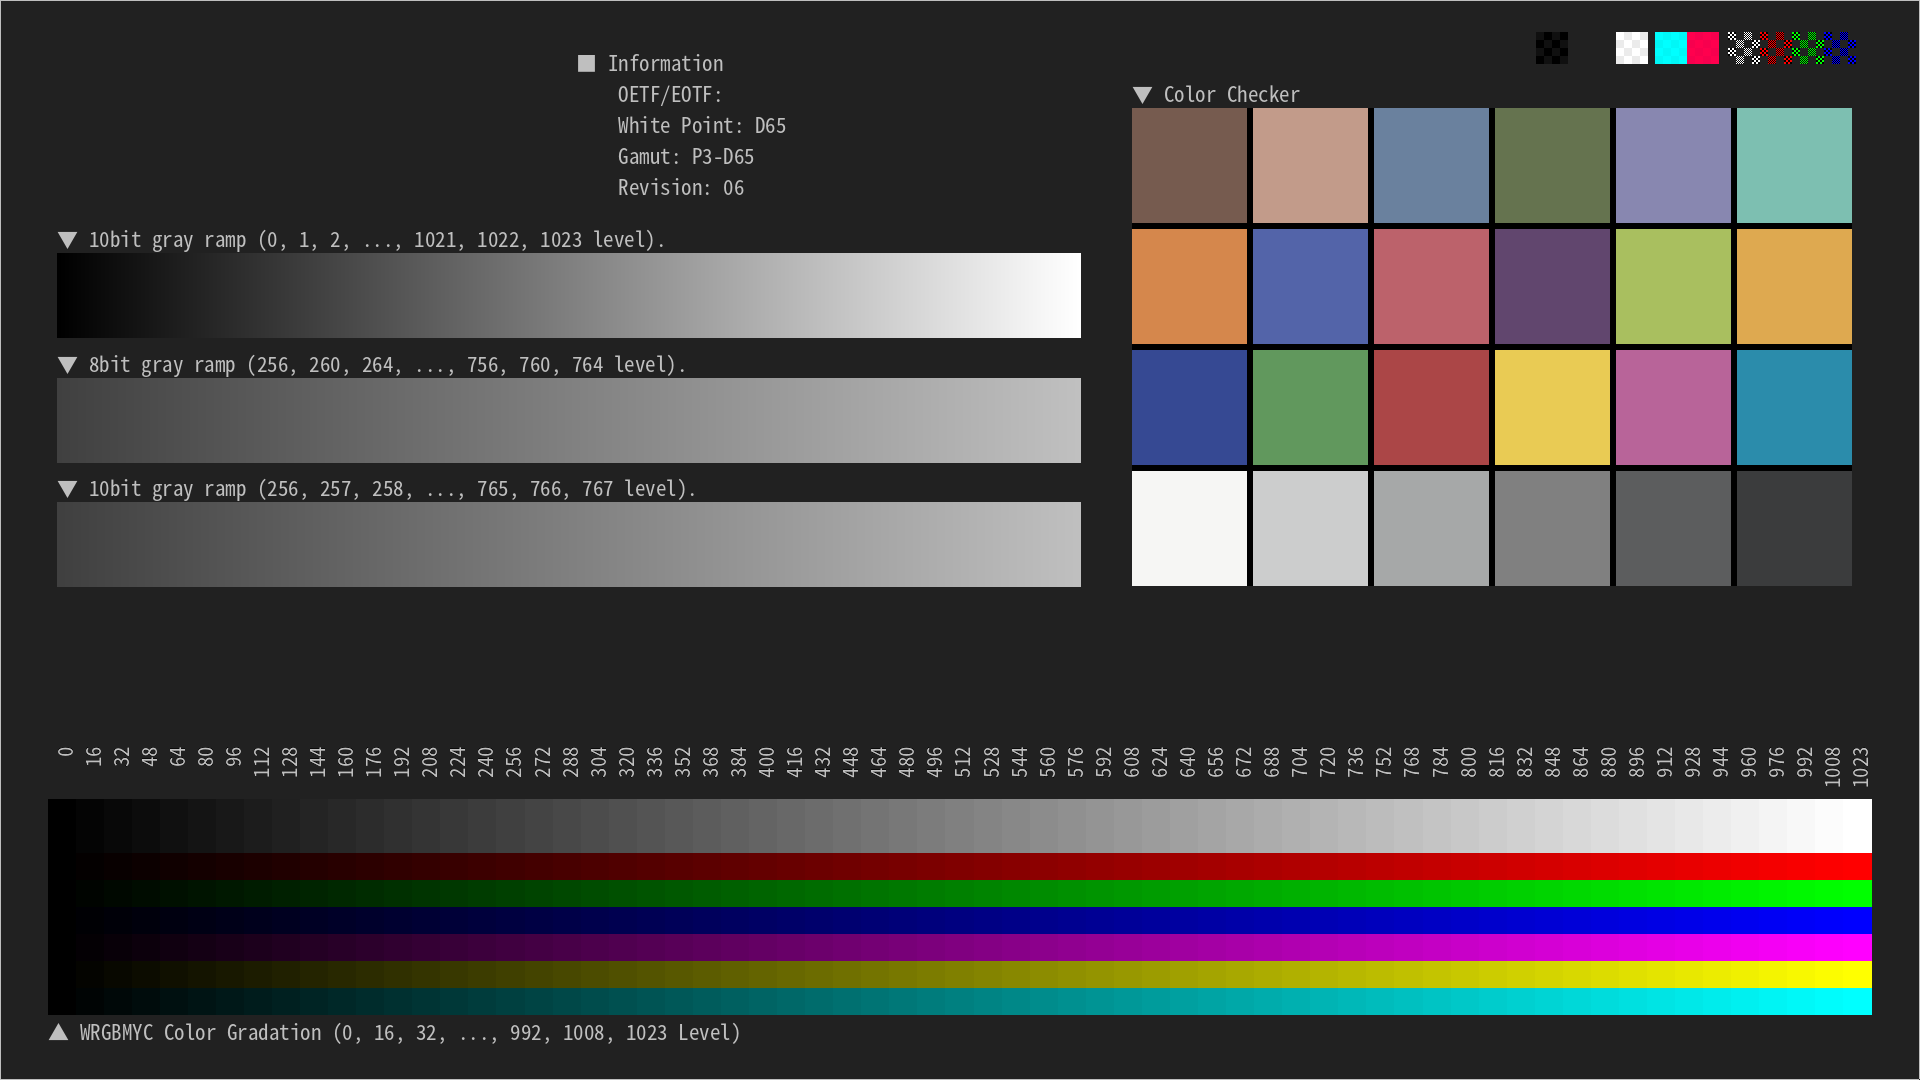
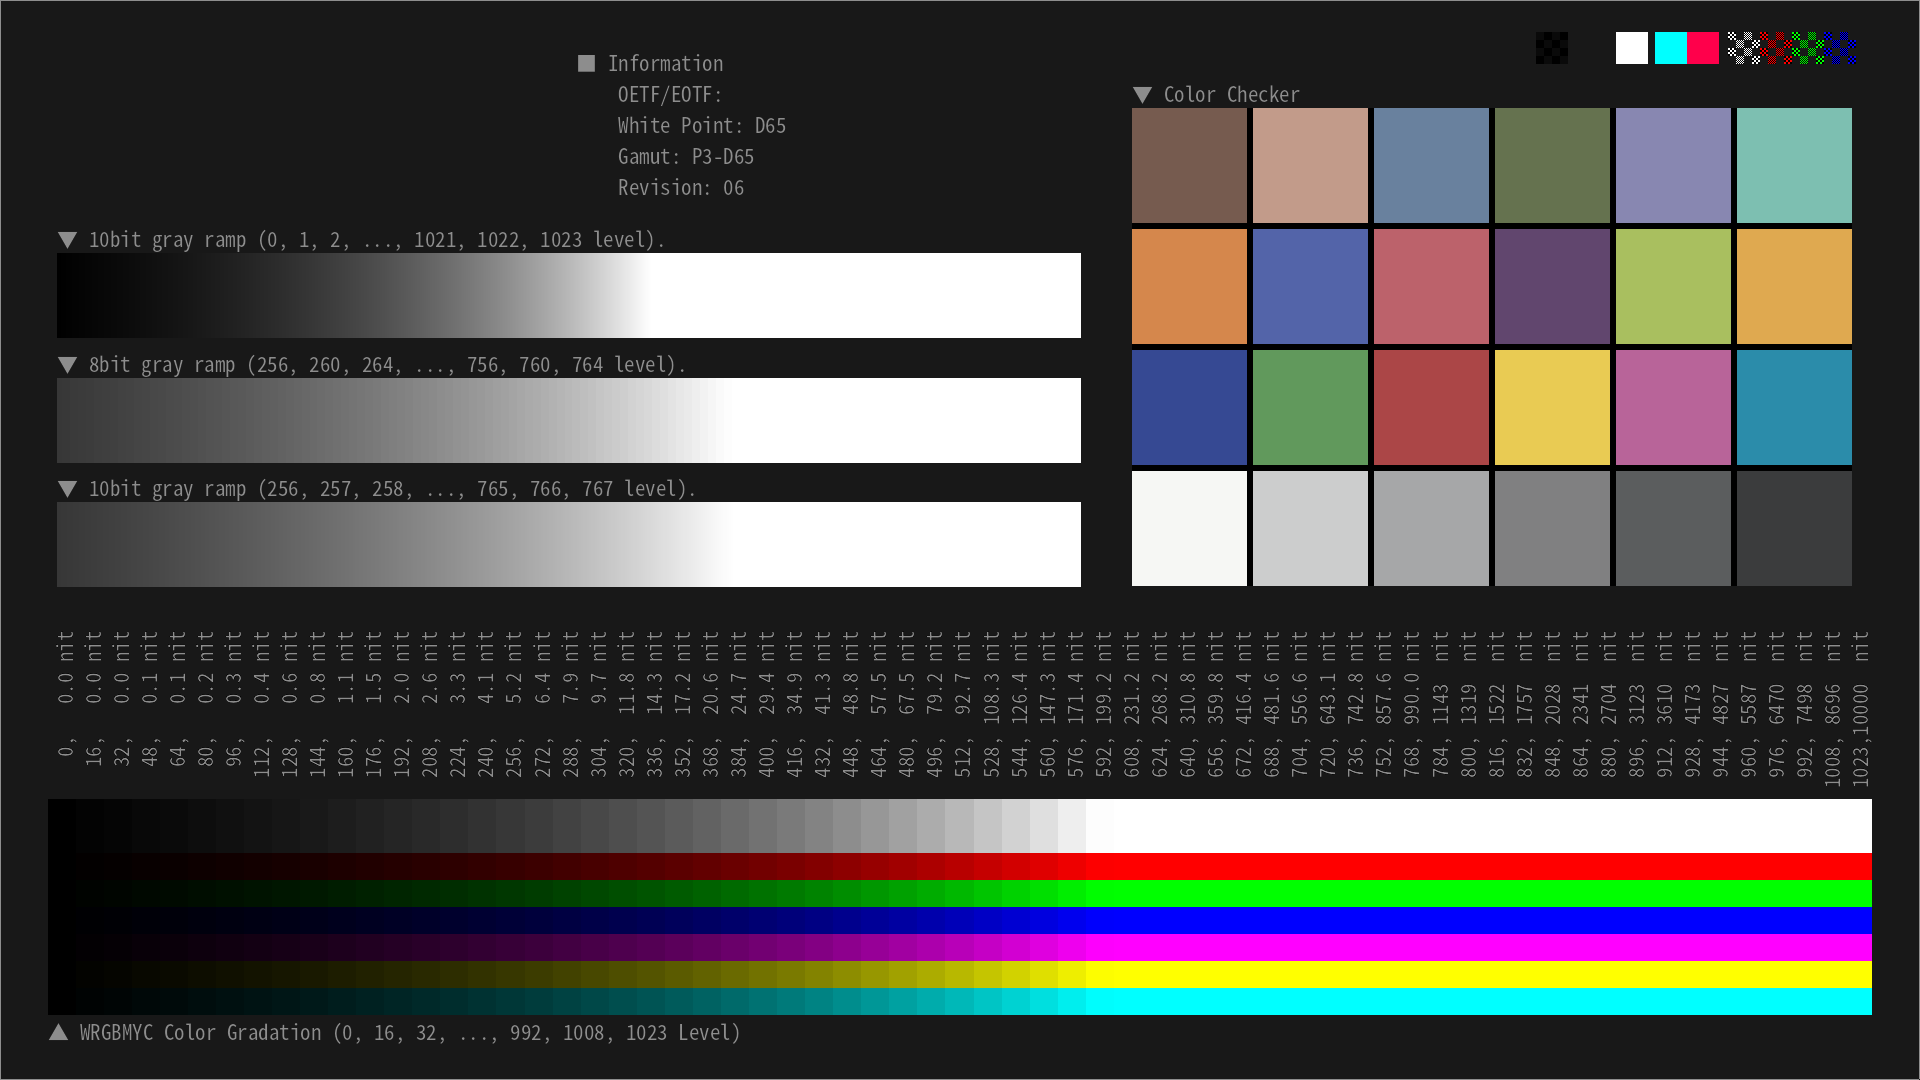
#223 create new sdr hdr test pattern
SDR is clipped version of HDR pattern

diff --git a/2023/10_Study_Gain_Map_HDR/make_sdr_testpattern.py b/2023/10_Study_Gain_Map_HDR/make_sdr_testpattern.py
@@ -25,7 +25,7 @@ __email__ = 'toru.ver.11 at-sign gmail.com'
 __all__ = []
 
 
-def main_func(fname):
+def remove_hdr_info_text(fname):
     pp = Path(fname)
     out_fname = "./img/" + pp.name
 
@@ -37,21 +37,33 @@ def main_func(fname):
     ed_pos1_h = st_pos1_h + 169
     ed_pos1_v = st_pos1_v + 34
 
-    st_pos2_h = 48
-    st_pos2_v = 626
-    ed_pos2_h = st_pos2_h + 1833
-    ed_pos2_v = st_pos2_v + 120
+    # st_pos2_h = 48
+    # st_pos2_v = 626
+    # ed_pos2_h = st_pos2_h + 1833
+    # ed_pos2_v = st_pos2_v + 120
 
     img[st_pos1_v:ed_pos1_v, st_pos1_h:ed_pos1_h] = bg_color
     # img[st_pos2_v:ed_pos2_v, st_pos2_h:ed_pos2_h] = bg_color
 
+    print(out_fname)
     tpg.img_wirte_float_as_16bit_int(out_fname, img)
+    return out_fname
+
+
+def make_sdr_version_tp(hdr_fname):
+    sdr_fname = hdr_tp_fname.replace("HDR", "SDR")
+    img = tpg.img_read_as_float(hdr_tp_fname)
+    linear = tf.eotf_to_luminance(img, tf.ST2084)
+    ref_white = 203
+    linear[linear > ref_white] = ref_white
+
+    sdr_img = tf.oetf(linear / ref_white, tf.GAMMA24)
+    print(sdr_fname)
+    tpg.img_wirte_float_as_16bit_int(sdr_fname, sdr_img)
 
 
 if __name__ == '__main__':
     os.chdir(os.path.dirname(os.path.abspath(__file__)))
-    fname_list = [
-        "./img/org_tp/HDR_tyTP_P3D65.png"
-    ]
-    for fname in fname_list:
-        main_func(fname=fname)
+    hdr_tp_fname = remove_hdr_info_text(
+        fname="./img/org_tp/HDR_tyTP_P3D65.png")
+    make_sdr_version_tp(hdr_fname=hdr_tp_fname)
